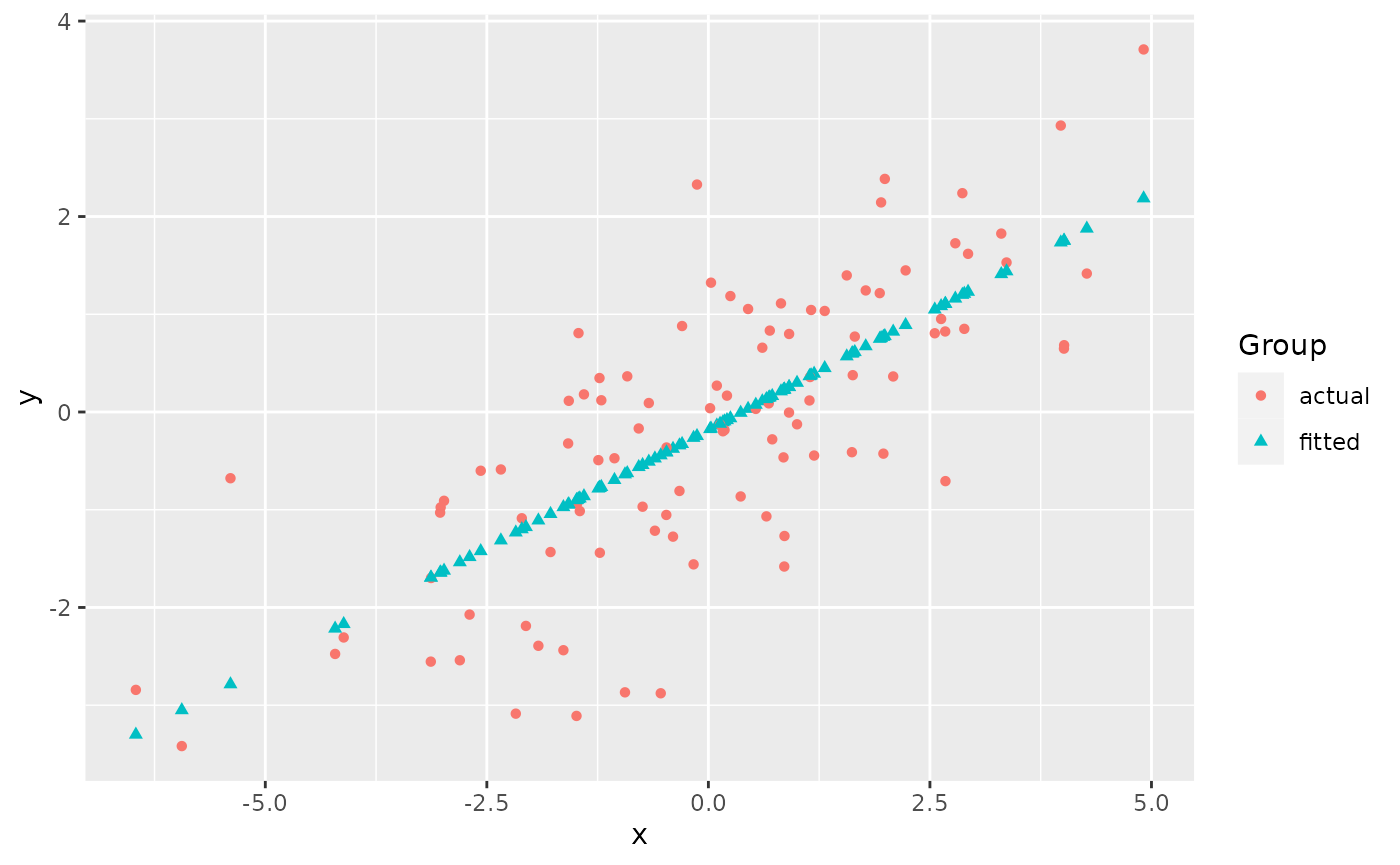
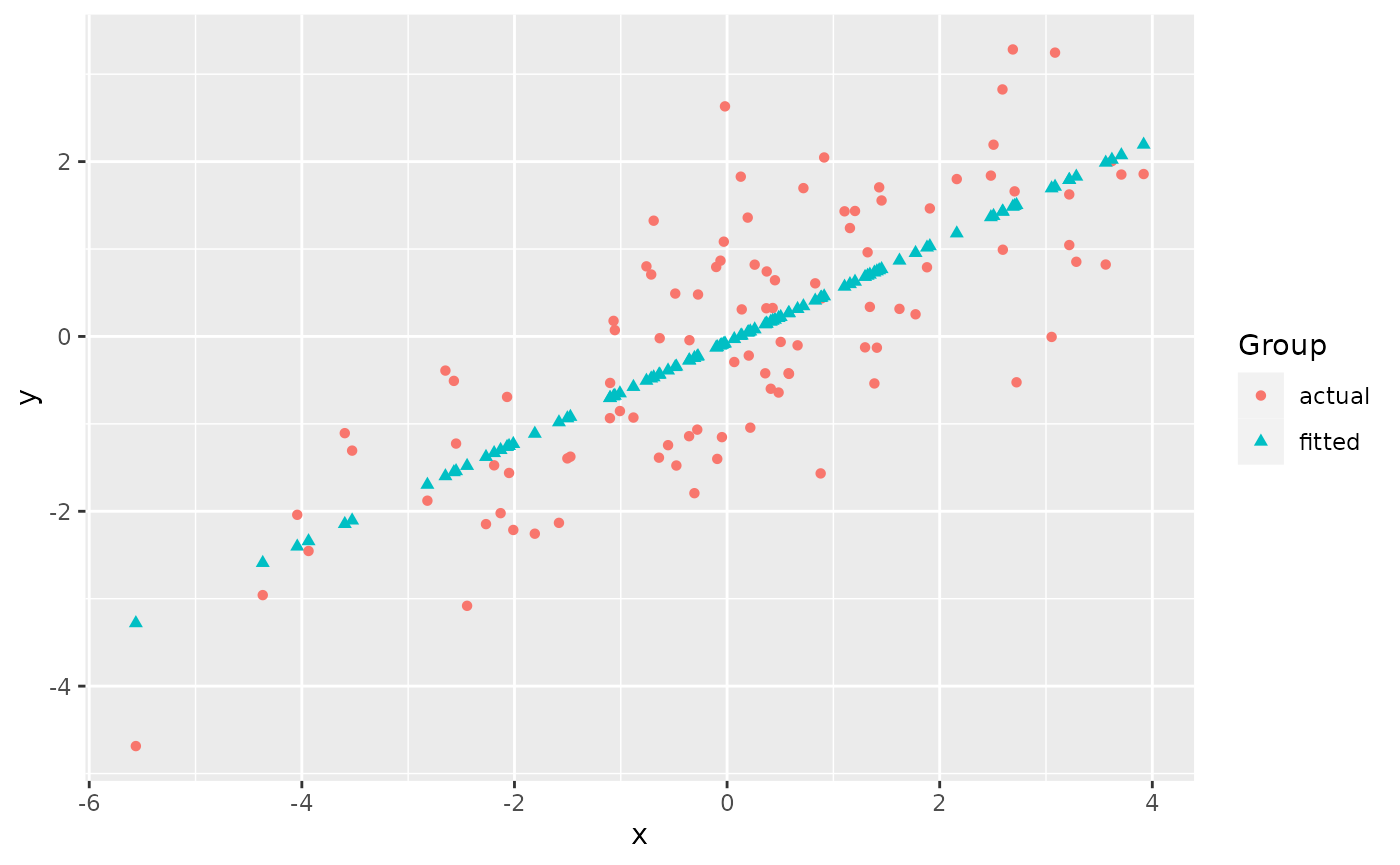
Built site for ggmatplot: 0.1.2@b39df60

diff --git a/articles/ggmatplot.html b/articles/ggmatplot.html
@@ -103,7 +103,7 @@
 <span class="va">x</span> <span class="op">&lt;-</span> <span class="fu"><a href="https://rdrr.io/r/base/c.html" class="external-link">c</a></span><span class="op">(</span><span class="fu"><a href="https://rdrr.io/r/stats/Normal.html" class="external-link">rnorm</a></span><span class="op">(</span><span class="fl">100</span>, sd <span class="op">=</span> <span class="fl">2</span><span class="op">)</span><span class="op">)</span>
 
 <span class="fu"><a href="https://rdrr.io/r/utils/head.html" class="external-link">head</a></span><span class="op">(</span><span class="va">x</span><span class="op">)</span>
-<span class="co">#&gt; [1]  0.7206074  1.6291944  3.3644705  0.6086260  2.6751507 -1.0599431</span>
+<span class="co">#&gt; [1]  2.7228492 -1.0558424  0.2039888  3.0528608 -5.5614652  0.2597157</span>
 
 <span class="co"># matrix z</span>
 <span class="va">y</span> <span class="op">&lt;-</span> <span class="va">x</span> <span class="op">*</span> <span class="fl">0.5</span> <span class="op">+</span> <span class="fu"><a href="https://rdrr.io/r/stats/Normal.html" class="external-link">rnorm</a></span><span class="op">(</span><span class="fl">100</span>, sd <span class="op">=</span> <span class="fl">1</span><span class="op">)</span>
@@ -112,13 +112,13 @@
            fitted <span class="op">=</span> <span class="va">fit.y</span><span class="op">)</span>
 
 <span class="fu"><a href="https://rdrr.io/r/utils/head.html" class="external-link">head</a></span><span class="op">(</span><span class="va">z</span><span class="op">)</span>
-<span class="co">#&gt;       actual     fitted</span>
-<span class="co">#&gt; 1 -0.2797635  0.1640661</span>
-<span class="co">#&gt; 2  0.3768495  0.6024577</span>
-<span class="co">#&gt; 3  1.5298360  1.4397253</span>
-<span class="co">#&gt; 4  0.6578309  0.1100353</span>
-<span class="co">#&gt; 5 -0.7073264  1.1071297</span>
-<span class="co">#&gt; 6 -0.4732965 -0.6950463</span></code></pre></div>
+<span class="co">#&gt;         actual      fitted</span>
+<span class="co">#&gt; 1 -0.524462995  1.50384493</span>
+<span class="co">#&gt; 2  0.072256677 -0.67809717</span>
+<span class="co">#&gt; 3 -0.218724137  0.04937126</span>
+<span class="co">#&gt; 4 -0.005619838  1.69440461</span>
+<span class="co">#&gt; 5 -4.685801936 -3.27979345</span>
+<span class="co">#&gt; 6  0.821199742  0.08154978</span></code></pre></div>
 <p><code>ggmatplot</code> plots vector <code>x</code> against each column of matrix <code>z</code> using the default <code>plot_type = "point"</code>. This will be represented on the resulting plot as two groups, identified using different shapes and colors.</p>
 <div class="sourceCode" id="cb2"><pre class="downlit sourceCode r">
 <code class="sourceCode R"><span class="kw"><a href="https://rdrr.io/r/base/library.html" class="external-link">library</a></span><span class="op">(</span><span class="va"><a href="https://github.com/xuan-liang/ggmatplot" class="external-link">ggmatplot</a></span><span class="op">)</span>
